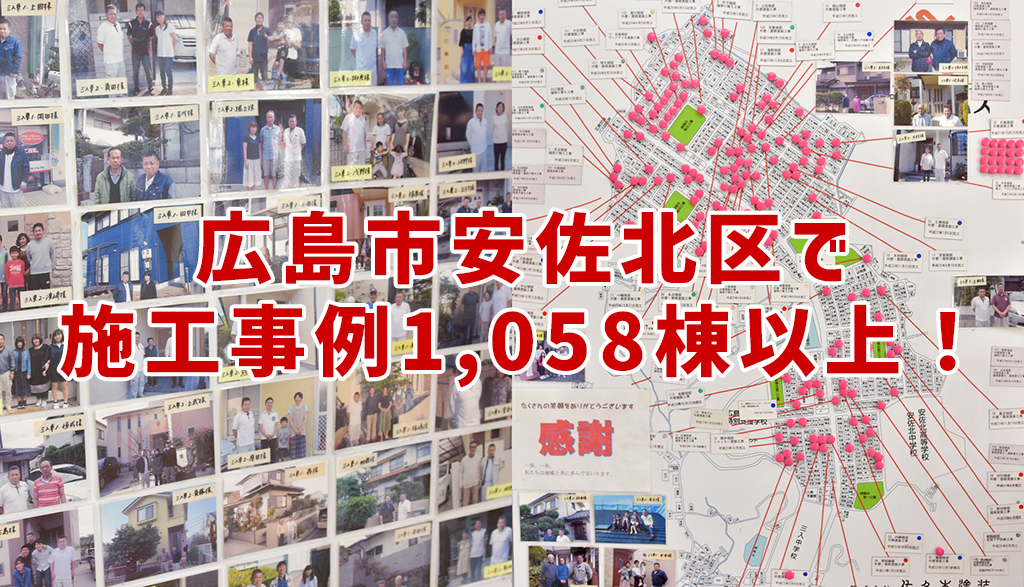
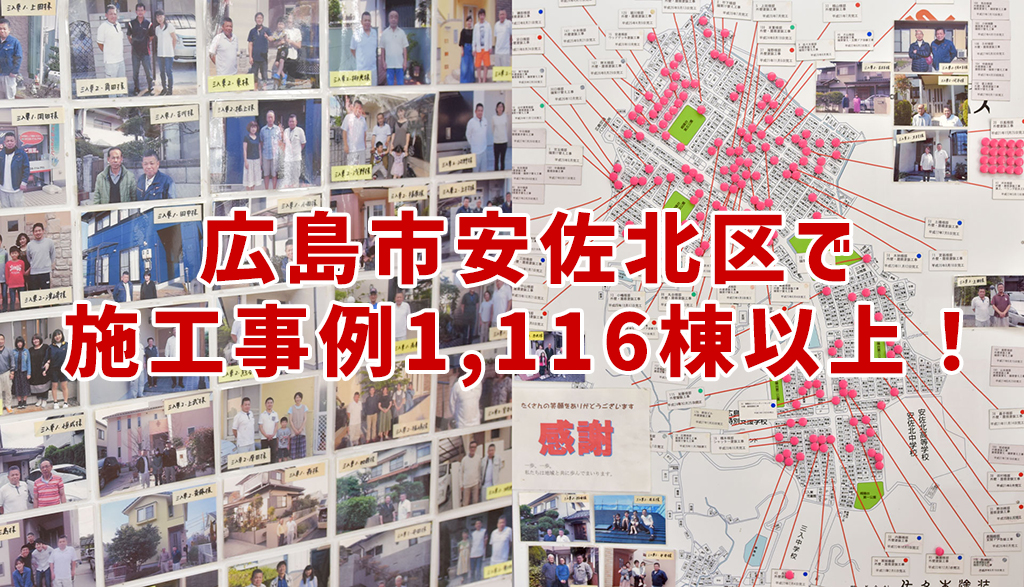
施工総数の変更

Changed region(s): [[0.0312, 0.3373, 0.9375, 0.6746], [0.2188, 0.3373, 0.25, 0.368]]

diff --git a/src/pages/index.js b/src/pages/index.js
@@ -128,11 +128,11 @@ export default function index({ data }) {
 
               <img src='../images/works_bg02.jpg' width={1920} height={1100} className='works_bg' loading='lazy' alt='施工事例イメージ' />
 
-              <StaticImage src='../images/works_bg02_smp.jpg' alt='広島市安佐北区で施工事例1,058棟以上!' className='smp2' loading='lazy' />
+              <StaticImage src='../images/works_bg02_smp.jpg' alt='広島市安佐北区で施工事例1,116棟以上!' className='smp2' loading='lazy' />
 
               <div className='works_inner'>
                 <h4 className='center tub2 mtb3p'>
-                  <img src='../images/works_txt01.png' width={680} height={180} alt='広島市安佐北区で施工事例1,058棟以上!' loading='lazy' />
+                  <img src='../images/works_txt01.png' width={680} height={180} alt='広島市安佐北区で施工事例1,116棟以上!' loading='lazy' />
                 </h4>
 
                 <div>
